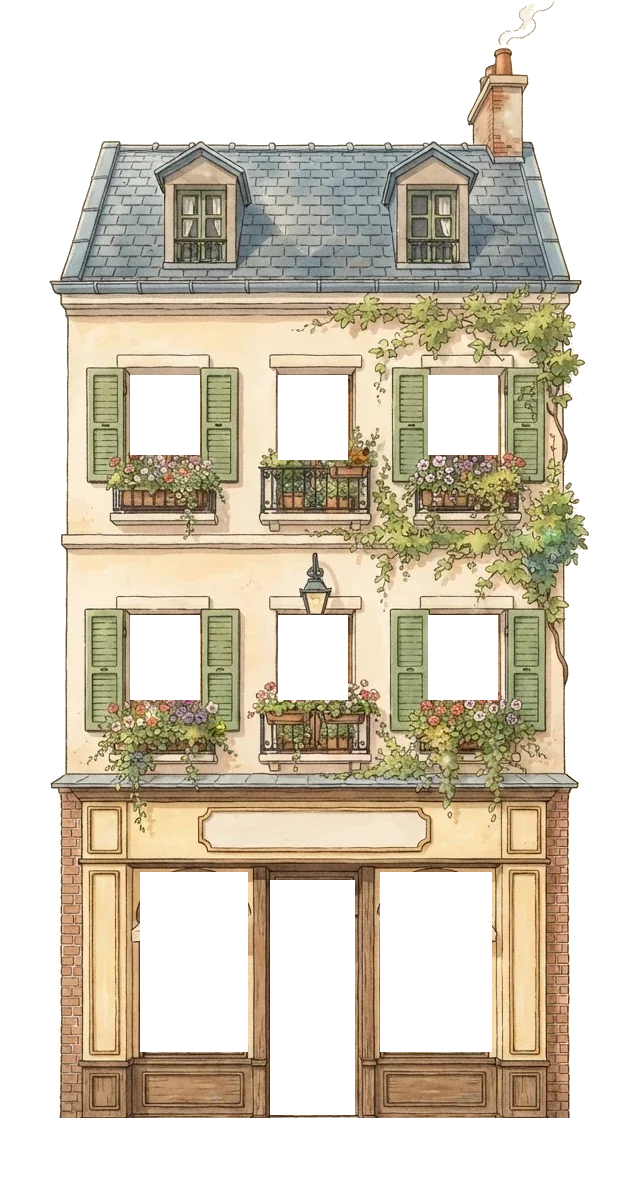
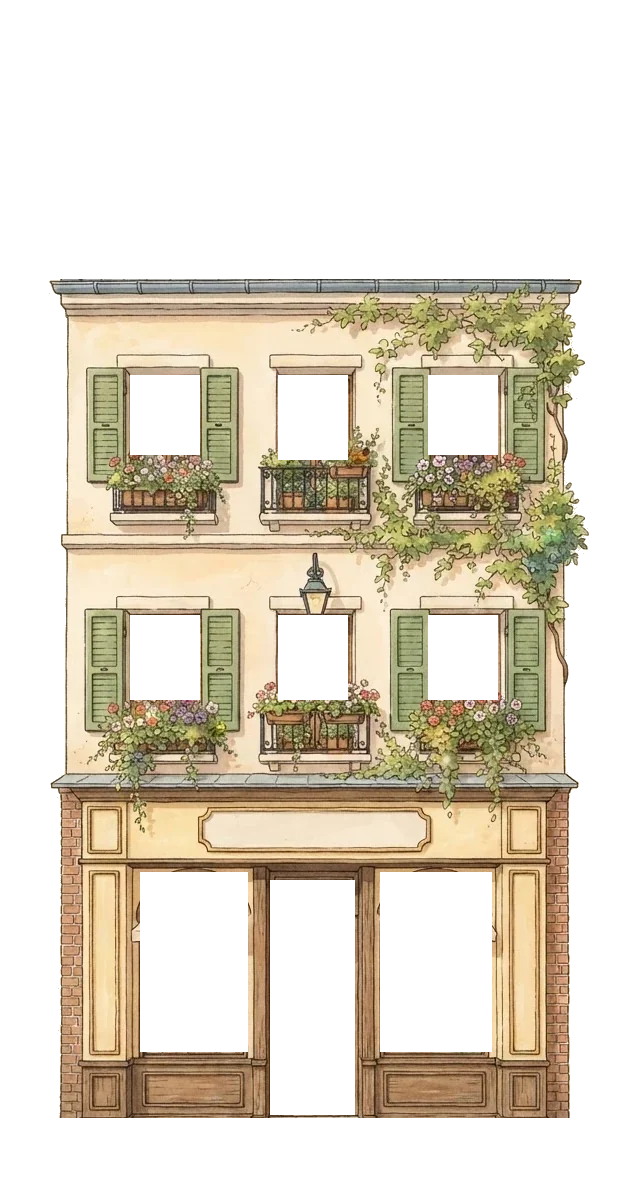
Nouveau Montmartre : toits en volume peints (zinc, cuivre, tuiles, lucarnes, cheminées, garde-corps, jardins), pans coupés aux angles des rues (plus rien ne traverse les boutiques), stores variés, nouveau café agrandi, on passe des rues aux places et sur les trottoirs
Claude-Session: https://claude.ai/code/session_01WYc8bcxVUTnPR8YQxCHawi

Changed region(s): [[0.0908, 0.0311, 0.9076, 0.2492], [0.8169, 0.0, 0.8774, 0.0311]]

diff --git a/public/montmartre2.js b/public/montmartre2.js
@@ -20,6 +20,28 @@ function construireMontmartre2(A, L, scene) {
   const DEF = {"fac1": {"IW": 628, "IH": 1188, "mur": 16376767, "holes": [[130, 375, 200, 455, "fen"], [278, 375, 348, 460, "fen"], [428, 375, 498, 455, "fen"], [130, 615, 200, 700, "fen"], [278, 615, 348, 700, "fen"], [428, 615, 498, 700, "fen"], [140, 872, 248, 1052, "vit"], [380, 872, 492, 1052, "vit"], [270, 880, 355, 1115, "porte"]], "det": [[100, 448, 232, 512], [255, 438, 372, 516], [405, 448, 528, 512], [92, 688, 242, 762], [252, 678, 378, 752], [402, 688, 538, 762], [296, 552, 334, 622]], "awn": [[130, 908, 250, 946], [378, 908, 498, 946]], "corn": [[60, 568, 780, 12368815], [60, 568, 286, 9410712], [62, 566, 542, 14206121]], "luc": [200, 430], "lucY": 210, "toitY": 285, "chem": [500, 110]}, "fac3": {"IW": 536, "IH": 1078, "mur": 15717823, "holes": [[75, 292, 142, 405, "fen"], [235, 292, 302, 405, "fen"], [398, 292, 465, 405, "fen"], [75, 457, 142, 580, "fen"], [235, 457, 302, 580, "fen"], [398, 457, 465, 580, "fen"], [75, 632, 142, 760, "fen"], [235, 632, 302, 760, "fen"], [398, 632, 465, 760, "fen"], [78, 805, 140, 905, "fen"], [402, 805, 464, 905, "fen"], [198, 822, 338, 1062, "porte"]], "det": [[68, 358, 148, 410], [230, 358, 306, 410], [393, 358, 470, 410], [68, 532, 148, 585], [230, 532, 306, 585], [393, 532, 470, 585], [30, 712, 506, 772], [64, 868, 144, 906], [394, 868, 472, 906]], "awn": [], "corn": [[0, 536, 245, 10788242], [4, 532, 417, 15124914], [4, 532, 597, 12427403], [20, 516, 780, 13151640]], "luc": [105, 268, 428], "lucY": 190, "toitY": 245, "chem": [192, 110]}, "fac4": {"IW": 606, "IH": 672, "mur": 16049350, "holes": [[112, 215, 193, 292, "fen"], [272, 215, 338, 292, "fen"], [428, 215, 492, 292, "fen"], [82, 457, 228, 608, "vit"], [377, 457, 525, 608, "vit"], [272, 480, 335, 660, "porte"]], "det": [[75, 262, 215, 346], [250, 262, 375, 346], [395, 262, 530, 346]], "awn": [[5, 410, 600, 455]], "corn": [[20, 590, 165, 9277321], [30, 580, 353, 7032632]], "luc": [168, 438], "lucY": 120, "toitY": 165, "chem": [490, 40]}};
   /* (10.241) les matières qui s'allument le soir, partagées (une allumée, une éteinte, par dessin) : tout Montmartre se regroupe en peu d'appels de dessin */
   const MN = {}, matN = (cle, o, j, n) => { if (!MN[cle]) { MN[cle] = mat(o); NUIT.push([MN[cle], j, n]); } return MN[cle]; };
+  const MITOYEN = mat({ color: 0xe4d8c4, roughness: 1 }), MITOYEN2 = mat({ color: 0xe4d8c4, roughness: 1, side: THREE.DoubleSide });
+  /* (10.242) les toits en volume, peints : le brisis (zinc, zinc patiné, cuivre vert-de-gris ou tuiles) incliné en vrai, ses lucarnes en saillie avec leur fenêtre et leur petit toit,
+     la cheminée de pierre et ses mitrons, le dessus du toit ; çà et là, un garde-corps de fer forgé ou un jardin sur le toit. Le toit peint du dessin est effacé : celui-ci le remplace */
+  const TOITS = [["toit_zinc", 1.6, 0x8a9aa8], ["toit_zinc2", 3.4, 0x9aa4ac], ["toit_cuivre", 4.6, 0x5a8a74], ["toit_zinc", 1.6, 0x8a9aa8], ["toit_tuiles", 3.2, 0xb8644a], ["toit_zinc2", 3.4, 0x9aa4ac]];
+  let nToit = 0;
+  const toit = (g, FW, Yt, lucs, chemX) => { const st = TOITS[nToit % TOITS.length], k = nToit++, HT = 2.8, PR = 2.4, lg = Math.hypot(HT, PR), a = Math.atan2(PR, HT);
+    const tex = txF(st[0]); tex.wrapS = THREE.MirroredRepeatWrapping; const tM = matN("toit" + st[0], { map: tex, roughness: .55, side: THREE.DoubleSide }, 0, 0), dessus = matN("dessus" + st[2], { color: st[2], roughness: .7 }, 0, 0);
+    const geo = new THREE.PlaneGeometry(FW + .1, lg), uv = geo.attributes.uv; for (let i = 0; i < uv.count; i++) uv.setX(i, uv.getX(i) * Math.max(1, Math.round(FW / st[1])));
+    const sl = new THREE.Mesh(geo, tM); sl.rotation.x = -a; sl.position.set(0, Yt + HT / 2, .12 - PR / 2); sl.castShadow = !PEU; g.add(sl);
+    box(FW + .1, .25, 3.6, dessus, 0, Yt + HT - .1, -PR - 1.6, g); box(FW + .2, .14, .32, matN("bord", { color: 0xe8dcc6 }, 0, 0), 0, Yt + .02, .1, g);
+    { const sh = new THREE.Shape([new THREE.Vector2(.12, 0), new THREE.Vector2(.12 - PR, HT), new THREE.Vector2(-5.8, HT), new THREE.Vector2(-5.8, 0)]), sg = new THREE.ShapeGeometry(sh);
+      for (const sx of [-1, 1]) { const m = new THREE.Mesh(sg, MITOYEN2); m.rotation.y = -Math.PI / 2; m.position.set(sx * (FW / 2 + .04), Yt, 0); g.add(m); } }
+    const zf = (y) => .12 - (y - Yt) / HT * PR;   // (le brisis, à la hauteur y)
+    lucs.forEach((lx, i) => { const yb = Yt + .5, w = .95, hh = 1.25, zf0 = zf(yb) + .25, allu = (k + i) % 3 ? 1 : 0;
+      box(w + .16, hh, 1.6, matN("lucM", { color: 0xece2cc }, 0, 0), lx, yb + hh / 2, zf0 - .8, g);
+      const f = new THREE.Mesh(new THREE.PlaneGeometry(w * .8, hh * .82), matN("lucF" + allu, { map: txF("luc_zinc"), emissive: 0xffc070, emissiveMap: txF("luc_zinc"), emissiveIntensity: 0 }, 0, allu * .7)); f.position.set(lx, yb + hh * .48, zf0 + .01); g.add(f);
+      for (const sx of [-1, 1]) { const r = box(.75, .06, 1.8, tM, lx + sx * .3, yb + hh + .2, zf0 - .8, g); r.rotation.z = -sx * .6; }
+      box(w + .2, .07, .2, matN("bord", { color: 0xe8dcc6 }, 0, 0), lx, yb - .03, zf0 + .05, g); });
+    if (chemX != null) { const cz = -PR - 1, cy = Yt + HT; box(.9, 1.3, .55, matN("chem", { map: txF("chem_pierre") }, 0, 0), chemX, cy + .55, cz, g); box(1, .1, .65, matN("chemB", { color: 0xd8ccb8 }, 0, 0), chemX, cy + 1.25, cz, g);
+      for (let i = 0; i < 3; i++) { const p = new THREE.Mesh(new THREE.CylinderGeometry(.07, .09, .35 + (i % 2) * .15, 8), matN("mitron" + (i % 2), { color: i % 2 ? 0x8a8f96 : 0xb06a48 }, 0, 0)); p.position.set(chemX - .28 + i * .28, cy + 1.45 + (i % 2) * .07, cz); g.add(p); } }
+    if (k % 4 === 2) { const t2 = txF("garde_corps"); const m = new THREE.Mesh(new THREE.PlaneGeometry(FW * .9, .75), matN("gc", { map: t2, transparent: true, alphaTest: .4, side: THREE.DoubleSide }, 0, 0)); m.position.set(0, Yt + HT + .45, -PR + .05); g.add(m); }
+    if (k % 5 === 3) for (const r of [0, Math.PI / 2]) { const m = new THREE.Mesh(new THREE.PlaneGeometry(1.6, 1.2), matN("jt", { map: txF("jardin_toit"), transparent: true, alphaTest: .4, side: THREE.DoubleSide }, 0, 0)); m.position.set(FW * .25, Yt + HT + .6, -PR - 1.2); m.rotation.y = r + .4; g.add(m); } };
   const TXR = {}; const txF = (n, srgb = true) => TXR[n] || (TXR[n] = tx(n, srgb));
   const salle = (g, cx, by, w, h, P, genre) => { const D = 3.4, S = new THREE.Group(); S.position.set(cx, by, -P); g.add(S); const parquet = mat({ color: 0x8a5a34 }), mur2 = matN("salle" + genre, { color: genre === "cafe" ? 0xe8b878 : 0xf0dcc0, emissive: 0x4a2a10, emissiveIntensity: .2 }, .2, .9), bois = mat({ color: 0x6a3a20 });
     box(w, .02, D, parquet, 0, 0, -D / 2, S); box(w, h + .5, .05, mur2, 0, h / 2, -D, S); box(.05, h + .5, D, mur2, -w / 2, h / 2, -D / 2, S); box(.05, h + .5, D, mur2, w / 2, h / 2, -D / 2, S); box(w, .05, D, mur2, 0, h + .25, -D / 2, S);
@@ -37,7 +59,7 @@ function construireMontmartre2(A, L, scene) {
   const relief = (F, g0, v = 0) => { const g = new THREE.Group(); g0.add(g); if (BASE[F]) g.position.y = -(DEF[F].IH - BASE[F]) * s; const d = DEF[F], IW = d.IW, IH = d.IH, FW = IW * s, FH = IH * s, X = (px) => (px - IW / 2) * s, Y = (py) => (IH - py) * s, murC = mat({ color: v ? VAR[F][v] : d.mur, roughness: .9 }), embM = mat({ color: new THREE.Color(d.mur).multiplyScalar(.82), roughness: .95 }), appM = mat({ color: 0xe8dcc0 });
     const plan = (t, x0, y0, x1, y1, z, o = {}) => { const m = new THREE.Mesh(new THREE.PlaneGeometry((x1 - x0) * s, (y1 - y0) * s), mat({ map: t, transparent: true, alphaTest: .4, side: THREE.DoubleSide, ...o })); m.position.set(X((x0 + x1) / 2), Y((y0 + y1) / 2), z); m.receiveShadow = true; g.add(m); return m; };
     plan(txF(F + "_perce" + (v ? "_v" + v : "")), 0, 0, IW, IH, 0, { bumpMap: txF(F + "_relief", false), bumpScale: 2.2 });
-    box(FW * .98, FH * .74, 6, murC, 0, FH * .37, -8.2, g); for (const sg of [-1, 1]) box(.05, Y(d.toitY), 5.2, murC, sg * FW * .49, Y(d.toitY) / 2, -2.6, g);
+    box(FW * .98, FH * .74, 3, murC, 0, FH * .37, -5.7, g); for (const sg of [-1, 1]) box(.05, Y(d.toitY), 4.2, MITOYEN, sg * FW * .49, Y(d.toitY) / 2, -2.1, g);   /* (10.242 : les volumes moins profonds — ils ne traversent plus la boutique du coin ; les murs mitoyens couleur d'enduit) */
     d.holes.forEach(([x0, y0, x1, y1, k], i) => { const w = (x1 - x0) * s, h = (y1 - y0) * s, cx = X((x0 + x1) / 2), cy = Y((y0 + y1) / 2), P = k === "vit" ? .5 : k === "porte" ? .35 : .3, t = txF(F + "_h" + i);
       box(w, .03, P, embM, cx, cy + h / 2, -P / 2, g); box(w, .03, P, embM, cx, cy - h / 2, -P / 2, g); box(.03, h, P, embM, cx - w / 2, cy, -P / 2, g); box(.03, h, P, embM, cx + w / 2, cy, -P / 2, g);
       if (k === "vit") { salle(g, cx, cy - h / 2, w, h, P, F === "fac4" ? "cafe" : "boutique"); const v = plan(t, x0, y0, x1, y1, -P + .01, { opacity: .35, transparent: true, alphaTest: 0, depthWrite: false, emissive: 0xffb060, emissiveMap: t, emissiveIntensity: .15 }); void v; box(w + .15, .2, .3, appM, cx, cy - h / 2 + .1, .08, g); }
@@ -46,9 +68,7 @@ function construireMontmartre2(A, L, scene) {
     d.awn.forEach(([x0, y0, x1, y1], i) => { const t = txF(F + "_d" + (d.det.length + i)), w = (x1 - x0) * s, Lg = (y1 - y0) * s * 1.6, a = .55, m = new THREE.Mesh(new THREE.PlaneGeometry(w, Lg), mat({ map: t, transparent: true, alphaTest: .3, side: THREE.DoubleSide }));
       m.rotation.x = -Math.PI / 2 + a; m.position.set(X((x0 + x1) / 2), Y(y0) - Lg * Math.sin(a) / 2, Lg * Math.cos(a) / 2); m.castShadow = !PEU; g.add(m); });
     for (const [x0, x1, y, c] of d.corn) box((x1 - x0) * s + .1, .13, .26, mat({ color: c }), X((x0 + x1) / 2), Y(y), .13, g);
-    { const toitM = mat({ color: 0x7088a8, roughness: .6 }), t = box(FW, 1.9, 2.4, toitM, 0, Y(d.toitY) + .7, -1.0, g); t.rotation.x = -.6;
-      for (const lx of d.luc) { box(1.0, 1.3, 1.2, mat({ color: 0xe8dcc0 }), X(lx), Y(d.lucY), -.45, g); box(1.3, .2, 1.4, toitM, X(lx), Y(d.lucY) + .7, -.45, g); const vm = matN("luc" + (lx + nRel) % 2, { color: 0x3a4a6a, emissive: 0xffc070, emissiveIntensity: 0 }, 0, (lx + nRel) % 2 ? .8 : 0); box(.6, .75, .04, vm, X(lx), Y(d.lucY), .16, g); }
-      box(.6, 1.3, .5, mat({ color: 0xc09070 }), X(d.chem[0]), Y(d.chem[1]), -.8, g); }
+    toit(g, FW, Y(d.toitY), d.luc.map(X), X(d.chem[0]));
     nRel++; return FW; };
   const facade = (type, g, v) => relief(type === "boutique" ? "fac1" : "fac3", g, v);
   // le café, en relief : la façade percée, les fenêtres creusées (embrasure, appui, garde-corps détaché), la vitrine creuse et sa salle, l'auvent, les corniches, l'enseigne
@@ -58,7 +78,7 @@ function construireMontmartre2(A, L, scene) {
   const cafe = (g, nom, v = 0) => { const plan = (t, x0, y0, x1, y1, z, o = {}) => { const m = new THREE.Mesh(new THREE.PlaneGeometry((x1 - x0) * s, (y1 - y0) * s), mat({ map: t, transparent: true, alphaTest: .4, side: THREE.DoubleSide, ...o })); m.position.set(X((x0 + x1) / 2), Y((y0 + y1) / 2), z); m.receiveShadow = true; g.add(m); return m; };
     plan(v ? txF("fac2_perce_v" + v) : CAF.perce, 0, 0, IW, IH, 0, { bumpMap: CAF.rel, bumpScale: 2.2 });
     const murM = mat({ color: VAR.fac2[v][0] || 0xd8b880 }), rougeM = mat({ color: VAR.fac2[v][1], roughness: .8 }), embM = mat({ color: 0xc9a870, roughness: .95 }), appM = mat({ color: 0xe4d2a8 });
-    box(FW * .98, FH * .74, 6, murM, 0, FH * .37, -8.2, g); box(FW, Y(250) - Y(700), .05, murM, 0, (Y(250) + Y(700)) / 2, -.5, g); box(FW * .98, FH * .14, 6, mat({ color: 0x7088a8, roughness: .6 }), 0, FH * .8, -8.4, g);
+    box(FW * .98, FH * .74, 3, murM, 0, FH * .37, -5.7, g); for (const sg of [-1, 1]) box(.05, Y(250), 4.2, MITOYEN, sg * FW * .49, Y(250) / 2, -2.1, g); box(FW, Y(250) - Y(700), .05, murM, 0, (Y(250) + Y(700)) / 2, -.5, g); box(FW * .98, FH * .14, 3, mat({ color: 0x7088a8, roughness: .6 }), 0, FH * .8, -5.7, g);
     [[85, 318, 150, 452], [238, 318, 302, 452], [390, 318, 455, 452], [85, 528, 150, 662], [238, 528, 302, 662], [390, 528, 455, 662]].forEach(([x0, y0, x1, y1], i) => { const w = (x1 - x0) * s, h = (y1 - y0) * s, cx = X((x0 + x1) / 2), cy = Y((y0 + y1) / 2), P = .32;
       box(w, .03, P, embM, cx, cy + h / 2, -P / 2, g); box(w, .03, P, embM, cx, cy - h / 2, -P / 2, g); box(.03, h, P, embM, cx - w / 2, cy, -P / 2, g); box(.03, h, P, embM, cx + w / 2, cy, -P / 2, g);
       const allu = (i + nCafe) % 3 ? 1 : 0, f = plan(CAF.fen[i], x0, y0, x1, y1, -P); f.material.dispose(); f.material = matN("caf" + i + "_" + allu, { map: CAF.fen[i], transparent: true, alphaTest: .4, side: THREE.DoubleSide, emissive: 0xffc070, emissiveMap: CAF.fen[i], emissiveIntensity: 0 }, 0, allu * .5);   /* (le soir, certaines fenêtres s'allument) */
@@ -76,7 +96,7 @@ function construireMontmartre2(A, L, scene) {
       const v = plan(CAF.vit, x0, y0, x1, y1, -P + .01, { opacity: .3, transparent: true, alphaTest: 0, depthWrite: false }); v.material.emissive = new THREE.Color(0xffa850); v.material.emissiveMap = CAF.vit; v.material.emissiveIntensity = .2;
       box(w + .2, .25, .35, rougeM, cx, cy - h / 2 + .12, .1, g); }
     // l'auvent rayé : la toile inclinée au-dessus du trottoir, son lambrequin, ses bras de fer
-    { const x0 = 55, x1 = 480, ww = (x1 - x0) * s, cx = X((x0 + x1) / 2), y = Y(768), Lg = 1.6, a = .5, toileM = mat({ map: CAF.auv, side: THREE.DoubleSide });
+    { const x0 = 55, x1 = 480, ww = (x1 - x0) * s, cx = X((x0 + x1) / 2), y = Y(768), Lg = 1.6, a = .5, toileM = mat({ map: v ? txF(["store_creme", "store_bleu", "store_raye"][v - 1]) : CAF.auv, side: THREE.DoubleSide });
       const t = new THREE.Mesh(new THREE.PlaneGeometry(ww, Lg), toileM); t.rotation.x = -Math.PI / 2 + a; t.position.set(cx, y - Lg * Math.sin(a) / 2 + .05, Lg * Math.cos(a) / 2); t.castShadow = !PEU; g.add(t);
       const lb = new THREE.Mesh(new THREE.PlaneGeometry(ww, .22), toileM); lb.position.set(cx, y - Lg * Math.sin(a) - .06, Lg * Math.cos(a) + .01); g.add(lb);
       for (const sg of [-1, 1]) box(.03, .03, Lg * Math.cos(a), mat({ color: 0x2a2a2a }), cx + sg * ww / 2, y - Lg * Math.sin(a) / 2, Lg * Math.cos(a) / 2, g).rotation.x = a; }
@@ -84,9 +104,7 @@ function construireMontmartre2(A, L, scene) {
     box(FW + .1, .14, .28, mat({ color: new THREE.Color(VAR.fac2[v][1]).multiplyScalar(1.15) }), 0, Y(684), .14, g); box(FW + .15, .12, .3, mat({ color: 0xe8d4a8 }), 0, Y(255), .15, g); box(FW * .98, .08, .2, mat({ color: 0xe8d4a8 }), 0, Y(468), .1, g);
     { const c = document.createElement("canvas"); c.width = 512; c.height = 64; const x = c.getContext("2d"); x.fillStyle = "#f4ead6"; x.fillRect(0, 0, 512, 64); x.fillStyle = "#" + new THREE.Color(VAR.fac2[v][1]).getHexString(); x.font = "italic bold 38px Georgia"; x.textAlign = "center"; x.textBaseline = "middle"; x.fillText(nom, 256, 34); const t = new THREE.CanvasTexture(c); t.colorSpace = THREE.SRGBColorSpace;
       const ens = mat({ map: t, emissive: 0xffffff, emissiveMap: t, emissiveIntensity: 0 }), bord = mat({ color: 0xe8dcc0 }); const e = new THREE.Mesh(new THREE.BoxGeometry((452 - 80) * s, (748 - 706) * s, .06), [bord, bord, bord, bord, ens, bord]); e.position.set(X(266), Y(727), .06); g.add(e); NUIT.push([ens, 0, .35]); }
-    { const toitM = mat({ color: 0x7088a8, roughness: .6 }); const t = box(FW, 1.9, 2.4, toitM, 0, Y(250) + .7, -1.0, g); t.rotation.x = -.6;
-      for (const lx of [X(150), X(370)]) { box(1.0, 1.3, 1.2, mat({ color: 0xe8dcc0 }), lx, Y(190), -.45, g); box(1.3, .2, 1.4, toitM, lx, Y(140), -.45, g); const vm = matN("luc1", { color: 0x3a4a6a, emissive: 0xffc070, emissiveIntensity: 0 }, 0, .8); box(.6, .75, .04, vm, lx, Y(190), .16, g); }
-      box(.6, 1.2, .5, mat({ color: 0xc09070 }), X(105), Y(100), -.8, g); }
+    toit(g, FW, Y(250), [X(150), X(370)], X(105));
     nCafe++; return FW; };
   // =====================================================================================================================================================
   // ---------- le plan (x vers l'est) : métro → rue Norvins → place du Tertre → rue Saint-Éleuthère → place du bas → escaliers → terrasse → Sacré-Cœur ----------
@@ -113,11 +131,11 @@ function construireMontmartre2(A, L, scene) {
   // ---------- les maisons : une suite de façades peintes en relief, chacune avec son trottoir et sa bordure de pierre ----------
   const TRO = tx("trottoir"); TRO.wrapS = THREE.MirroredRepeatWrapping; TRO.wrapT = THREE.MirroredRepeatWrapping; const troM = mat({ map: TRO });
   const BOR = tx("bordure"); BOR.wrapS = THREE.MirroredRepeatWrapping; const borM = mat({ map: BOR });
-  const LARG = { boutique: DEF.fac1.IW * s, immeuble: DEF.fac3.IW * s, cafe: 535 * s, cafe2: DEF.fac4.IW * s };
+  const LARG = { boutique: DEF.fac1.IW * s, immeuble: DEF.fac3.IW * s, cafe: 535 * s, cafe2: DEF.fac4.IW * s * 1.3 };   /* (le nouveau café, agrandi : à la hauteur de ses voisins) */
   const SUITE = ["boutique", "immeuble:1", "cafe:Le Consulat", "boutique:2", "cafe2", "immeuble:2", "boutique:1", "immeuble", "cafe:La Bonne Franquette:1", "boutique:3", "immeuble:3", "cafe2",
     "boutique", "cafe:Chez Eugène:2", "immeuble:1", "boutique:2", "cafe:Au Lapin Agile:3", "immeuble", "cafe2", "boutique:1", "immeuble:2", "cafe:La Mère Catherine:2", "boutique:3", "immeuble:3", "cafe:Le Tire-Bouchon:1"];
   let iS = 0, nTr = 0; const CAFES = [];
-  const poser = (t, g) => { const pp = t.split(":"); if (pp[0] === "cafe") return cafe(g, pp[1], Number(pp[2] || 0)); if (pp[0] === "cafe2") return relief("fac4", g, 0); return relief(pp[0] === "boutique" ? "fac1" : "fac3", g, Number(pp[1] || 0)); };
+  const poser = (t, g) => { const pp = t.split(":"); if (pp[0] === "cafe") return cafe(g, pp[1], Number(pp[2] || 0)); if (pp[0] === "cafe2") { const g2 = new THREE.Group(); g2.scale.setScalar(1.3); g.add(g2); return relief("fac4", g2, 0); } return relief(pp[0] === "boutique" ? "fac1" : "fac3", g, Number(pp[1] || 0)); };
   /* une rangée : partant de (ax, az), tournée selon ry (la façade regarde (sin ry, cos ry)), longue de « long » ; les façades, un peu étirées ou serrées pour tomber juste */
   const rang = (ax, az, ry, long, y = 0, terr = false) => { const dx = Math.cos(ry), dz = -Math.sin(ry), nx = Math.sin(ry), nz = Math.cos(ry), types = []; let tot = 0;
     for (;;) { const t = SUITE[iS % SUITE.length], w = LARG[t.split(":")[0]]; if (types.length && tot + w / 2 > long) break; types.push(t); tot += w; iS++; }
@@ -127,11 +145,16 @@ function construireMontmartre2(A, L, scene) {
     const T = new THREE.Group(); T.position.set(ax + dx * long / 2 + nx * .75, y + .06 + (nTr++ % 4) * .004, az + dz * long / 2 + nz * .75); T.rotation.y = ry; scene.add(T);
     const p = new THREE.Mesh(planUV(long, 1.5, long / 3, 1.5), troM); p.rotation.x = -Math.PI / 2; p.receiveShadow = true; T.add(p); box(long, .08, .26, borM, 0, -.02, .72, T); };
   // le bas : la place du métro, la rue Norvins, la place du Tertre, la rue Saint-Éleuthère, la place du bas
-  rang(X_MET, -10, 0, X_NOR - X_MET); rang(X_NOR, 10, Math.PI, X_NOR - X_MET); rang(X_NOR, -10, -Math.PI / 2, 10 - RZ); rang(X_NOR, RZ, -Math.PI / 2, 10 - RZ);
-  rang(X_NOR, -RZ, 0, -PX - X_NOR); rang(-PX, RZ, Math.PI, -PX - X_NOR);
-  rang(-PX, -PZ, 0, 2 * PX, 0, true); rang(PX, PZ, Math.PI, 2 * PX, 0, true); rang(-PX, PZ, Math.PI / 2, PZ - RZ, 0, true); rang(-PX, -RZ, Math.PI / 2, PZ - RZ, 0, true); rang(PX, -PZ, -Math.PI / 2, PZ - RZ, 0, true); rang(PX, RZ, -Math.PI / 2, PZ - RZ, 0, true);
-  rang(PX, -RZ, 0, X_ELE - PX); rang(X_ELE, RZ, Math.PI, X_ELE - PX);
-  rang(X_ELE, BZ, Math.PI / 2, BZ - RZ, 0, true); rang(X_ELE, -RZ, Math.PI / 2, BZ - RZ, 0, true); rang(X_ELE, -BZ, 0, 14, 0, true); rang(X_ELE + 14, BZ, Math.PI, 14, 0, true);
+  /* (10.242) les angles où une rue débouche sur une place : un pan coupé, comme à Paris — une façade en biais ; les deux rangées s'arrêtent avant, et rien ne se traverse plus */
+  const PC = 5, DIAG = [];
+  const pan = (cx, cz, ux, uz, vx, vz) => { const nx = -(ux + vx) / Math.SQRT2, nz = -(uz + vz) / Math.SQRT2, ry = Math.atan2(nx, nz), dx = Math.cos(ry), dz = -Math.sin(ry), p1 = [cx + ux * PC, cz + uz * PC], p2 = [cx + vx * PC, cz + vz * PC];
+    const st = (p2[0] - p1[0]) * dx + (p2[1] - p1[1]) * dz > 0 ? p1 : p2; rang(st[0], st[1], ry, PC * Math.SQRT2); DIAG.push([p1[0], p1[1], nx, nz, cx, cz, ux, uz, vx, vz]); };
+  rang(X_MET, -10, 0, X_NOR - X_MET); rang(X_NOR, 10, Math.PI, X_NOR - X_MET);
+  rang(X_NOR + PC, -RZ, 0, -PX - X_NOR - 2 * PC); rang(-PX - PC, RZ, Math.PI, -PX - X_NOR - 2 * PC);
+  rang(-PX, -PZ, 0, 2 * PX, 0, true); rang(PX, PZ, Math.PI, 2 * PX, 0, true); rang(-PX, PZ, Math.PI / 2, PZ - RZ - PC, 0, true); rang(-PX, -RZ - PC, Math.PI / 2, PZ - RZ - PC, 0, true); rang(PX, -PZ, -Math.PI / 2, PZ - RZ - PC, 0, true); rang(PX, RZ + PC, -Math.PI / 2, PZ - RZ - PC, 0, true);
+  rang(PX + PC, -RZ, 0, X_ELE - PX - 2 * PC); rang(X_ELE - PC, RZ, Math.PI, X_ELE - PX - 2 * PC);
+  rang(X_ELE, BZ, Math.PI / 2, BZ - RZ - PC, 0, true); rang(X_ELE, -RZ - PC, Math.PI / 2, BZ - RZ - PC, 0, true); rang(X_ELE, -BZ, 0, 14, 0, true); rang(X_ELE + 14, BZ, Math.PI, 14, 0, true);
+  for (const sz of [-1, 1]) { pan(X_NOR, sz * RZ, 0, sz, 1, 0); pan(-PX, sz * RZ, -1, 0, 0, sz); pan(PX, sz * RZ, 1, 0, 0, sz); pan(X_ELE, sz * RZ, -1, 0, 0, sz); box(.6, 13, 10 - RZ - PC + .3, MITOYEN, X_NOR - .3, 6.5, sz * (10 - (10 - RZ - PC) / 2)); }
   // le haut : la rue qui fait le tour du Sacré-Cœur, la place de derrière
   rang(100, -TZ, 0, X_DER - 100, HAUT); rang(X_DER, TZ, Math.PI, X_DER - 100, HAUT); rang(X_DER, -TZ, -Math.PI / 2, 2 * TZ, HAUT);
   // ---------- le métro Abbesses : l'édicule de verre et de fonte verte, devant son immeuble, au bout de la place ----------
@@ -325,9 +348,10 @@ function construireMontmartre2(A, L, scene) {
   // ---------- le retour : un cercle violet devant le métro, vers la cour d'honneur ----------
   L.portails.push({ dans: (x, z) => Math.hypot(x - (MX1 + 1.4), z) < .6, seuil: [MX1 + 1.4, 0], vers: "grande", arrivee: [6, 6.6], yaw: Math.PI, violet: true, pasApo: true });
   // ---------- là où l'on marche : les places, les rues, les escaliers et le palier, la terrasse, la rue autour, la place de derrière (sans les arbres, les tables, les bancs…) ----------
-  const ZONES = [[X_MET + 2, X_NOR + .4, -8.4, 8.4], [X_NOR - .4, -PX + .4, -RZ + 1.6, RZ - 1.6], [-PX + 1.6, PX - 1.6, -PZ + 1.6, PZ - 1.6], [PX - .4, X_ELE + .4, -RZ + 1.6, RZ - 1.6], [X_ELE + 1.6, X_PEN + .3, -BZ + 1.6, BZ - 1.6],
-    [X_PEN - .5, X_TER + .5, ZE0 + .2, ZE1 - .3], [X_PEN - .5, X_TER + .5, -ZE1 + .3, -ZE0 - .2], [X_PAL0, X_PAL1, -ZE1 + .3, ZE1 - .3], [X_TER + .4, X_SC - .5, -17.6, 17.6], [X_TER + .5, X_DER - 1.6, 16.4, TZ - 1.6], [X_TER + .5, X_DER - 1.6, -TZ + 1.6, -16.4], [X_CHE + .5, X_DER - 1.6, -TZ + 1.6, TZ - 1.6]];
-  const dansZ = (x, z) => ZONES.some(([a, b, c, d]) => x >= a && x <= b && z >= c && z <= d) && !(x < MX1 + .6 && Math.abs(z) < 2.3) && !(x > X_SC - 2.9 && x < X_SC + 1 && Math.abs(z) < 7.8);
+  const M5 = .5;   /* (10.242 : on marche aussi sur les trottoirs, jusqu'à 50 cm des façades ; les rues entrent dans les places — avant, une bande infranchissable entre elles) */
+  const ZONES = [[X_MET + 2, X_NOR + 1, -10 + M5, 10 - M5], [X_NOR - 1, -PX + 2, -RZ + M5, RZ - M5], [-PX + M5, PX - M5, -PZ + M5, PZ - M5], [PX - 2, X_ELE + 2, -RZ + M5, RZ - M5], [X_ELE + M5, X_PEN + .3, -BZ + M5, BZ - M5],
+    [X_PEN - .5, X_TER + .5, ZE0 + .2, ZE1 - .3], [X_PEN - .5, X_TER + .5, -ZE1 + .3, -ZE0 - .2], [X_PAL0, X_PAL1, -ZE1 + .3, ZE1 - .3], [X_TER + .4, X_SC - .5, -17.6, 17.6], [X_TER + .5, X_DER - M5, 16.4, TZ - M5], [X_TER + .5, X_DER - M5, -TZ + M5, -16.4], [X_CHE + .5, X_DER - M5, -TZ + M5, TZ - M5]];
+  const dansZ = (x, z) => ZONES.some(([a, b, c, d]) => x >= a && x <= b && z >= c && z <= d) && DIAG.every(([px, pz, nx, nz, cx, cz, ux, uz, vx, vz]) => (x - px) * nx + (z - pz) * nz > .5 || (x - cx) * ux + (z - cz) * uz < -.6 || (x - cx) * vx + (z - cz) * vz < -.6 || (x - cx) * ux + (z - cz) * uz > PC + 7 || (x - cx) * vx + (z - cz) * vz > PC + 7) && !(x < MX1 + .6 && Math.abs(z) < 2.3) && !(x > X_SC - 2.9 && x < X_SC + 1 && Math.abs(z) < 7.8);
   L.limites = (x, z) => { if (!dansZ(x, z)) return false; for (const [ox, oz, r] of OBS) if ((x - ox) ** 2 + (z - oz) ** 2 < r * r) return false; return true; };
   L.hauteur = (x, z) => hauteur(x, z); L.solsPlus = SOLS; L.sansPNJ = true;
   L.depart = [X_MET + 8, 0]; L.taille = 1.8; L.suivi = { d: 6.5, h: 3.6, av: 3, vy: 2 }; L.fov = [58, 72];
